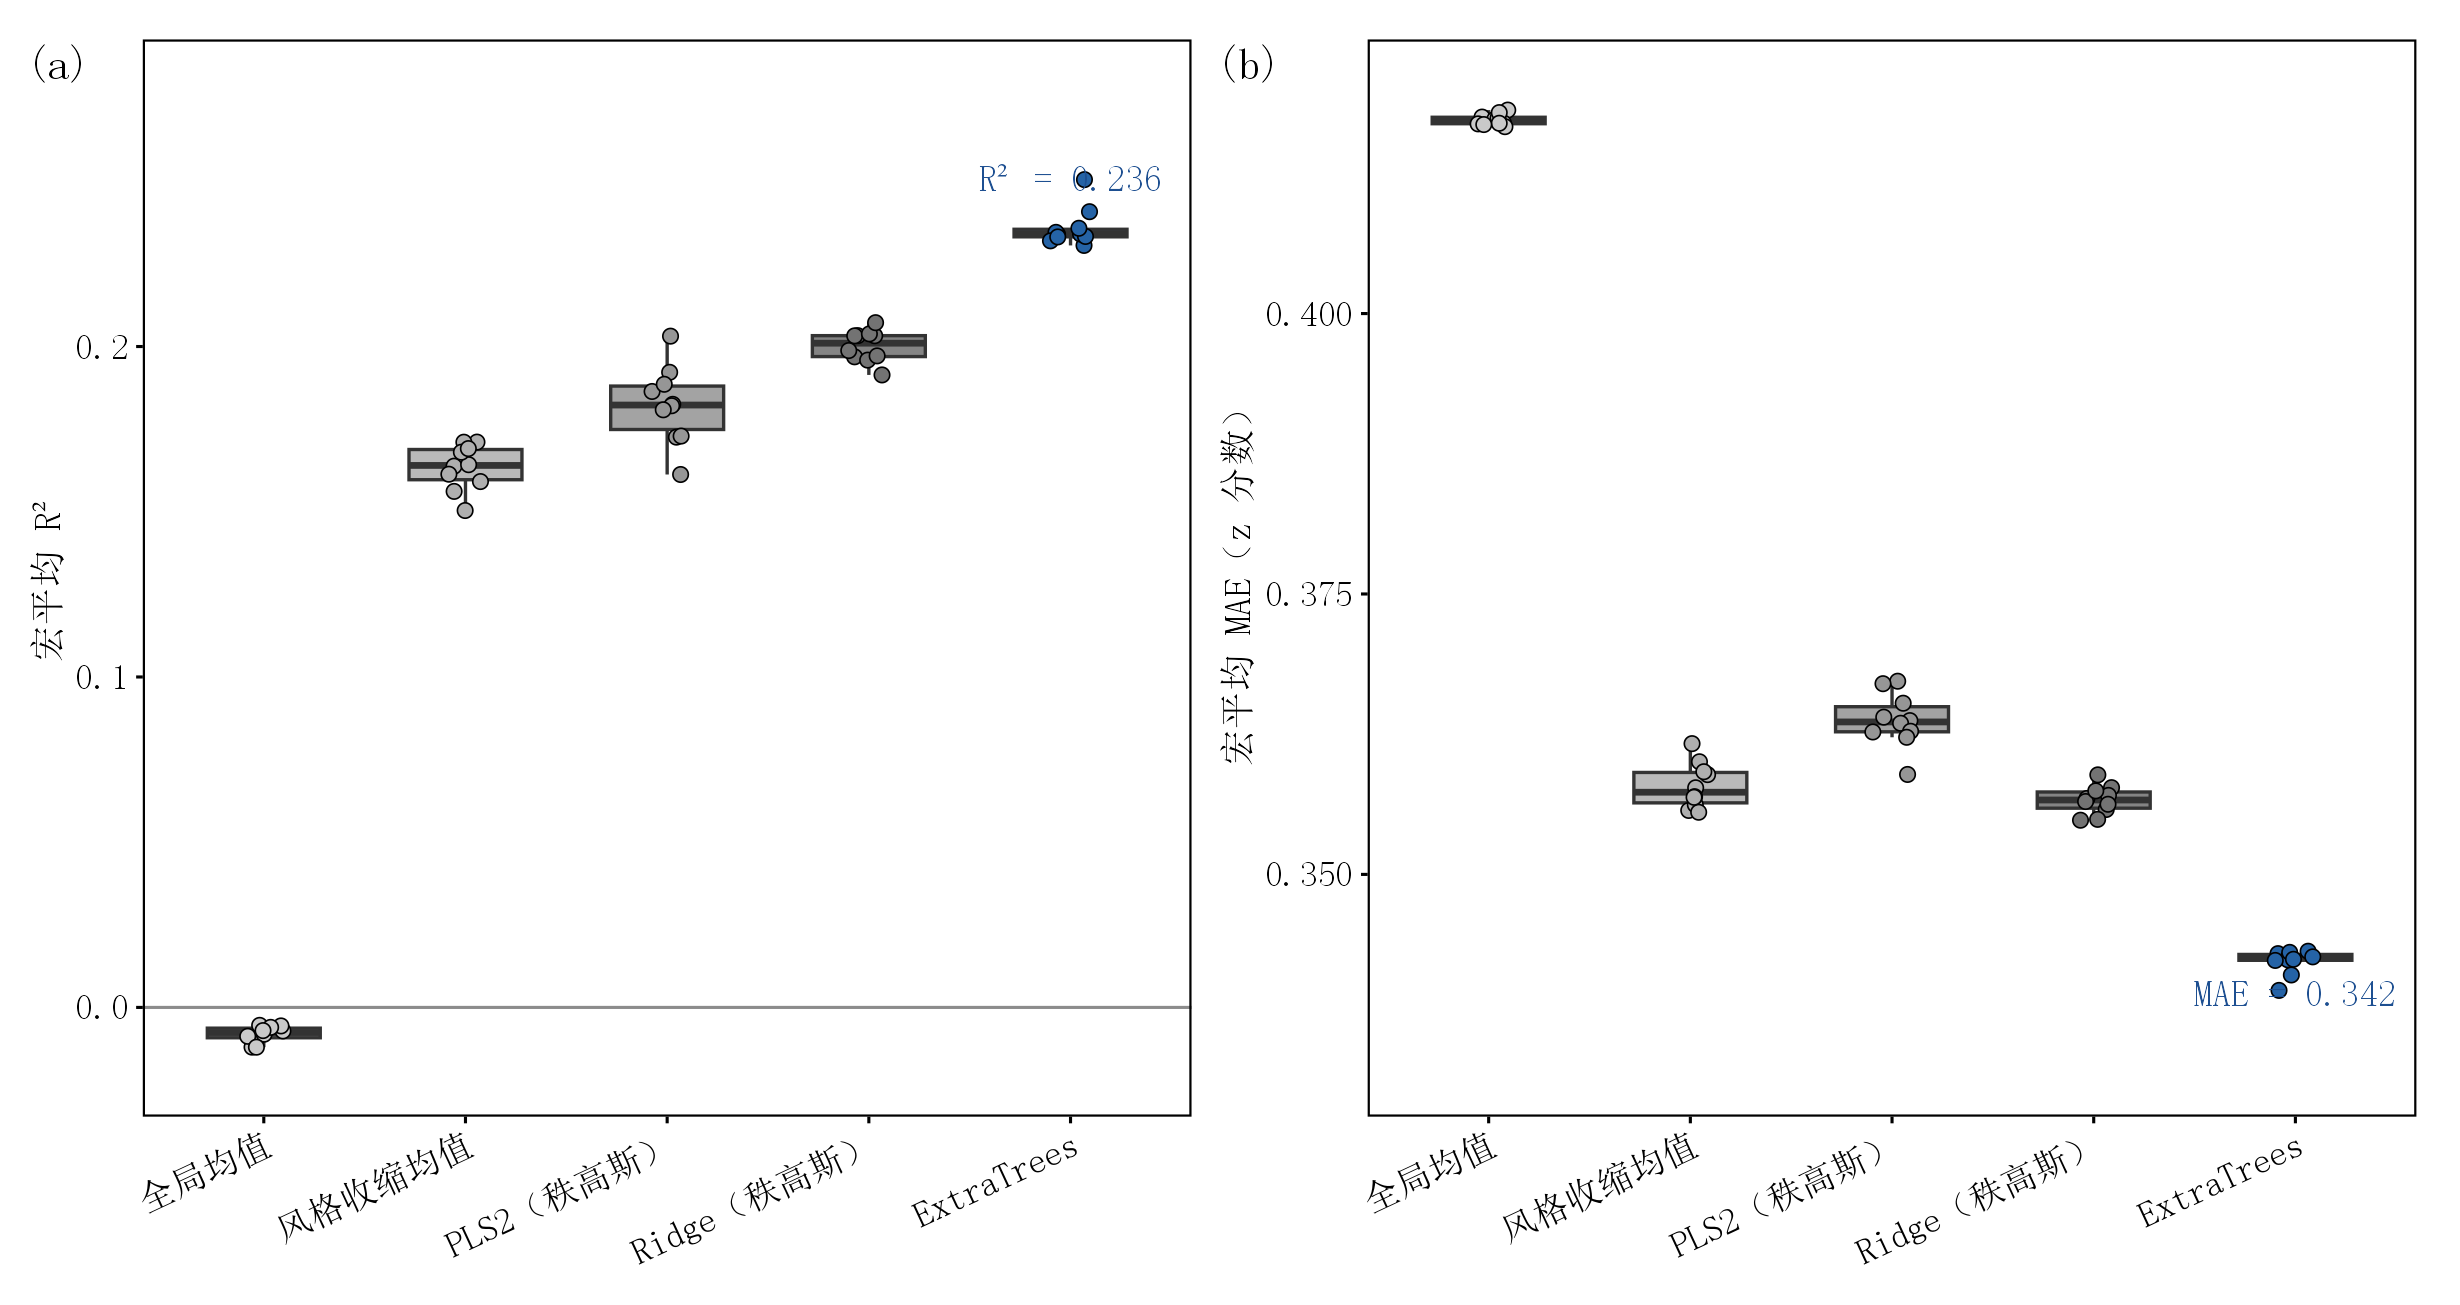
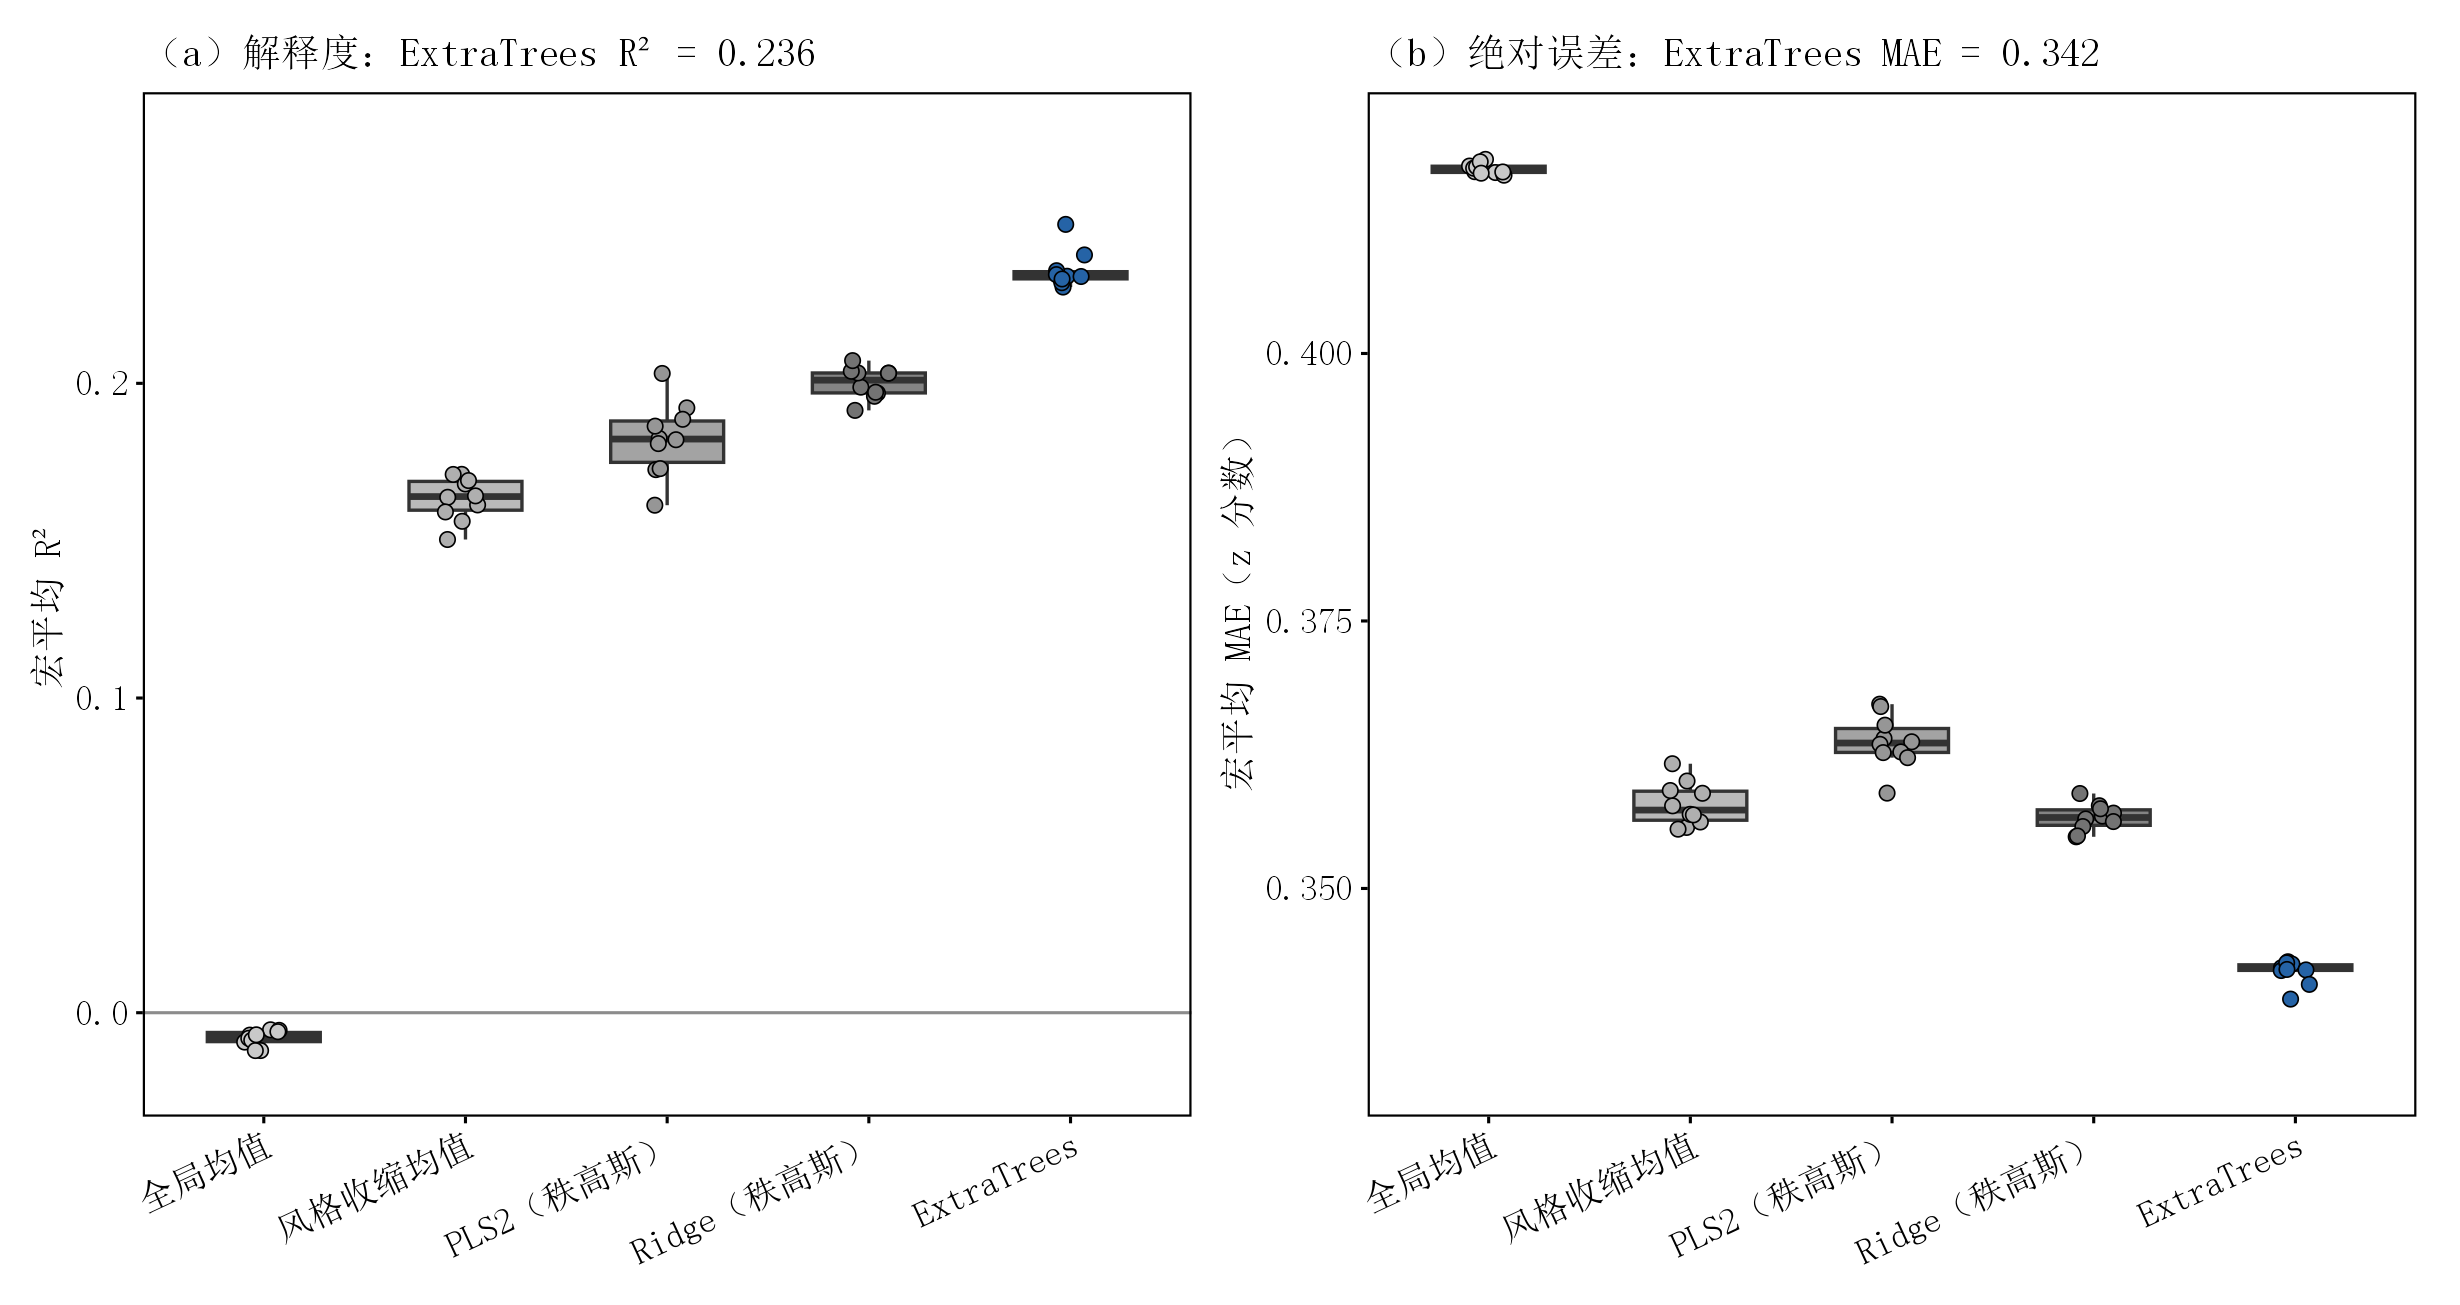
collab(MSG-20261023-2252-39): 修正Q1图稿标注细节

diff --git a/04_图表/Q1_感官评分/README.md b/04_图表/Q1_感官评分/README.md
@@ -1,6 +1,6 @@
 # Q1 图表
 
-> **状态：V2_REVIEW_PENDING（2026-10-23 22:46）**。已根据用户首轮审计将 7 张正文候选图压缩为 4 张主图 + 1 张附图。用户确认前不嵌入 DOCX。
+> **状态：V3_REVIEW_PENDING（2026-10-23）**。已根据用户两轮审计将 7 张正文候选图压缩为 4 张主图 + 1 张附图，并修正面板标识、数值重叠与颜色说明。用户确认前不嵌入 DOCX。
 
 ## V2 排版决定
 
@@ -11,5 +11,7 @@
 - 附图S1：残差诊断移入附图，不占正文主图图号；同样取消灰色分面底框。
 - 所有图片文件都不含整图标题或“图N”；完整图题只保存于 `Q1_图清单.csv`，待 DOCX 在图下排版。
 
-旧版 7 张图与原图清单完整保留于 `archive_v1/`。图表证据合同与源数据映射见 `.research/figures/Q1_figure_plan.md` 和 `Q1_source_data_manifest.json`。
+V3 细节修正：图1的 ExtraTrees 指标移到面板上方说明行，不再与散点重叠；图2的“（a）感官目标分布”和“（b）逐目标解释度”直接放在各面板上方并加粗；图4左图下方增加“MAE 蓝低、红高”水平色标。
+
+旧版 7 张图与原图清单完整保留于 `archive_v1/`，首次重排版保留于 `archive_v2/`。图表证据合同与源数据映射见 `.research/figures/Q1_figure_plan.md` 和 `Q1_source_data_manifest.json`。
 

diff --git a/docs/collab/to_zcode.md b/docs/collab/to_zcode.md
@@ -237,3 +237,22 @@ V2 图稿如下：
 - 用户确认后，Codex 再生成并嵌图到 `第一问_论文正文_v1.docx`。
 
 **回复**: （由 ZCode 填写）
+
+## MSG-20261023-2252-39 | handoff | OPEN
+- 发起: Codex
+- 接收: ZCode
+- 时间: 2026-10-23 22:52
+- 关联: MSG-20261023-2247-72、C-006、Q1_图清单.csv
+
+**标题**: Q1图稿V3修正数字重叠、面板标签与颜色说明
+
+**内容**:
+Q1 图稿第二轮反馈已落实：图1删除图内点旁数值，改为面板上方加粗说明“ExtraTrees R²=0.236 / MAE=0.342”，不再重叠；图2将“（a）感官目标分布”和“（b）ExtraTrees 逐目标解释度”直接放在各面板上方同一行并加粗；图4左图下方新增水平色标“颜色：MAE（蓝低，红高）”，两个面板也补齐加粗说明行。图1的 jitter 已固定 seed=20261023，两次重绘 SHA256 一致。V2 已归档到 `archive_v2/`，仍未生成 DOCX。
+
+**验收**:
+- 复核 `图1_模型对比.png`：上方指标与散点无重叠。
+- 复核 `图2_目标分布与逐目标R2.png`：面板名位于图框上方并加粗。
+- 复核 `图4_风格误差与量表映射.png`：左图下方有 MAE 蓝低红高色标。
+- 用户确认后进入 Q1 DOCX checkpoint。
+
+**回复**: （由 ZCode 填写）

diff --git a/docs/collab/board.md b/docs/collab/board.md
@@ -88,5 +88,7 @@
 - [2026-10-23 21:54] Codex: MSG-20261023-1922-c8 → OPEN：恢复图稿验收，等待用户看图
 - [2026-10-23 22:05] Codex: 完成 MSG-20261023-2154-4c 的 E000 清洗口径固化；250 个样本全保留，缺失 73/63/9，附件 8 可核验字段为 37 个 log10 + 33 个原尺度；E001—E003 无需重跑，7 图验收清单交接 MSG-20261023-2205-ae。
 - [2026-10-23 22:46] Codex: 根据用户图表审计将 Q1 由 7 张候选图收缩为 4 张正文主图 + 1 张附图；去除图内整图标题和灰底分面条，合并高纵比图，强调主模型；旧版完整归档。
+- [2026-10-23 22:52] Codex: 完成 Q1 图稿第二轮微调：图1指标移至面板上方解决点文重叠；图2面板名在上方加粗；图4左图补 MAE 蓝低红高色标；图1抖动位置固定随机种子，V2 已归档。
 - [2026-10-23 22:05] Codex: 发出 MSG-20261023-2205-ae（handoff）→ ZCode：Q1 E000清洗契约已固化，恢复7图验收
 - [2026-10-23 22:47] Codex: 发出 MSG-20261023-2247-72（handoff）→ ZCode：Q1图稿按用户审计压缩为4张主图并完成V2重排
+- [2026-10-23 22:52] Codex: 发出 MSG-20261023-2252-39（handoff）→ ZCode：Q1图稿V3修正数字重叠、面板标签与颜色说明
